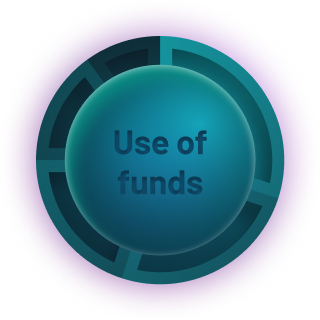
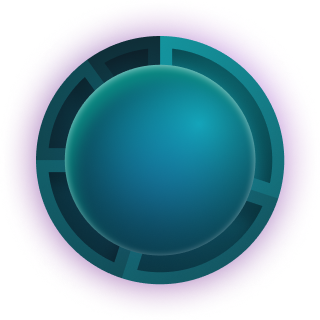
Quality fixes

Changed region(s): [[0.3438, 0.4062, 0.6562, 0.5], [0.375, 0.5312, 0.6562, 0.625]]

diff --git a/src/components/RoadMap/index.tsx b/src/components/RoadMap/index.tsx
@@ -12,7 +12,10 @@ function RoadMap() {
       </div>
 
         <div className="graph-mobile d-block d-md-none text-center">
-            <img className="img-fluid" src="/graph-mobile.png" alt="Graph"/>
+
+                <img className="img-fluid" src="/graph-mobile.png" alt="Graph"/>
+
+
         </div>
         <div className="graph d-none d-md-block">
             <img src="/graph.png" alt="graph" className="img-fluid graph-img"/>
@@ -27,8 +30,10 @@ function RoadMap() {
 
         <div className="piechart-wrapper d-block d-lg-none pb-5">
 
-            <img className="img-fluid w-100 " src="/funds-mobile.png" alt="Pie chart"/>
-
+            <div className="wrapper-graph">
+                <img className="img-fluid w-100 " src="/funds-mobile.png" alt="Pie chart"/>
+                <h4>Use of <br/> funds</h4>
+            </div>
             <div className="wrapper-pie-funds">
                 <div className="wrapper-pie-list">
                     <p className="pie-percent">30%</p>

diff --git a/src/components/OurCollection/index.tsx b/src/components/OurCollection/index.tsx
@@ -16,7 +16,7 @@ const OurCollection = () => {
                             Mint here
                             <img className="img-fluid btn-arrow" src="/arrow-right.svg" alt="arrow"/>
                         </a>
-                        <a href="#" className="btn-main-inverted">
+                        <a href="https://isengard.market/collection/EWIZZ-1e8ddb" className="btn-main-inverted">
                             Mint on Isengard
                             <img className="img-fluid btn-arrow" src="/arrow-right.svg" alt="arrow"/>
                         </a>

diff --git a/src/assets/sass/roadMap.scss b/src/assets/sass/roadMap.scss
@@ -212,6 +212,22 @@
   font-weight: 400 !important;
 }
 
+
+.wrapper-graph{
+  position: relative;
+  display: inline-block;
+}
+.wrapper-graph h4{
+  position: absolute;
+  left: 50%;
+  top: 50%;
+  transform : translate(-50%, -50%);
+  margin-bottom: 0;
+  font-size: 34px;
+  font-weight: 700 !important;
+  color:#0E4C6C;
+}
+
 @media screen and (min-width: 500px){
   .wrapper-pie-funds{
     max-width: 300px;
@@ -342,7 +358,7 @@
     left: 68%;
     bottom: 6%;
   }
-  .piechart-wrapper img{
+  .wrapper-graph{
     margin-top: 50px;
   }
 }

diff --git a/src/assets/sass/theme.scss b/src/assets/sass/theme.scss
@@ -408,8 +408,15 @@ a{
   border-radius: 0 88px;
   padding: 8px;
 }
+a:active,
+a:focus,
+a:focus-within,
+a:target,
+a:hover,
+a:visited,
 a:focus-visible{
   outline: none;
+  box-shadow: none;
 }
 @media screen and (max-width: 510px){
   .listing-wrapper img{
